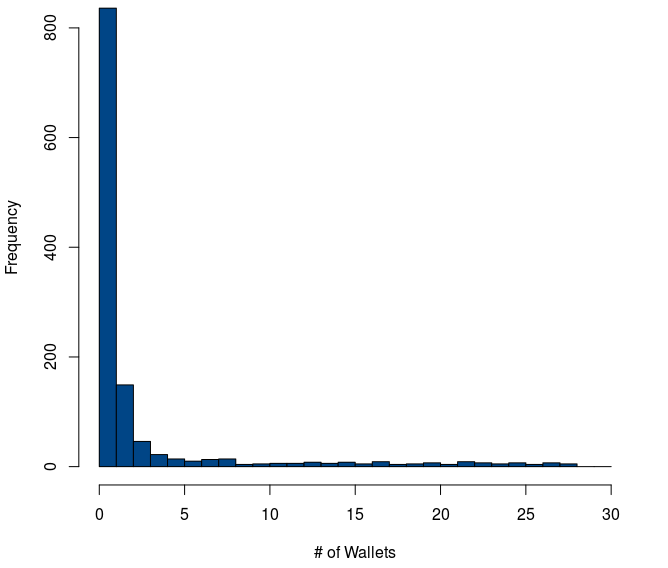
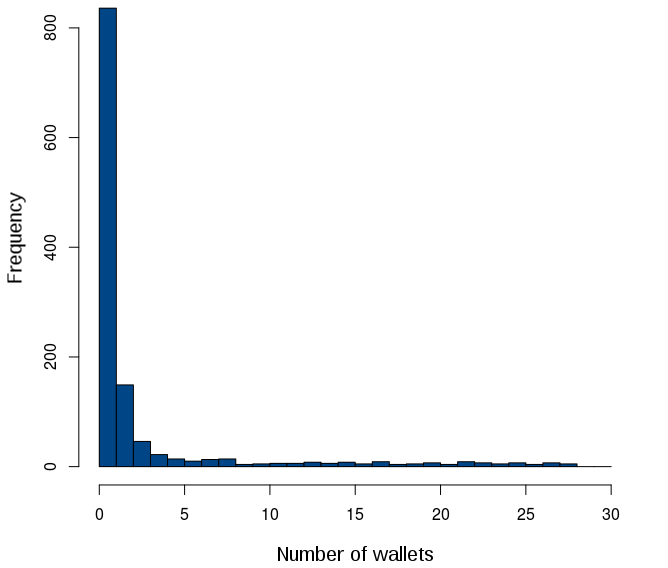
Change label of figure 2

Changed region(s): [[0.4192, 0.9577, 0.6587, 0.9877], [0.0, 0.3292, 0.0599, 0.5088]]

diff --git a/res/sections/29-Results.tex b/res/sections/29-Results.tex
@@ -96,7 +96,7 @@ addresses. These results are depicted in~\autoref{fig:numberaccountcurrency}.
 \end{subfigure}
 ~
 \begin{subfigure}[t]{0.3\textwidth}
-\includegraphics[width=.9\textwidth, height=3.5cm]{number_inferred_DOGE_LTC}
+\includegraphics[width=\textwidth, height=3.5cm]{number_inferred_DOGE_LTC}
 \caption{Comparison between the number of wallets before and after clustering
 for DOGE and LTC}
 \label{fig:dogeltcclustered}
